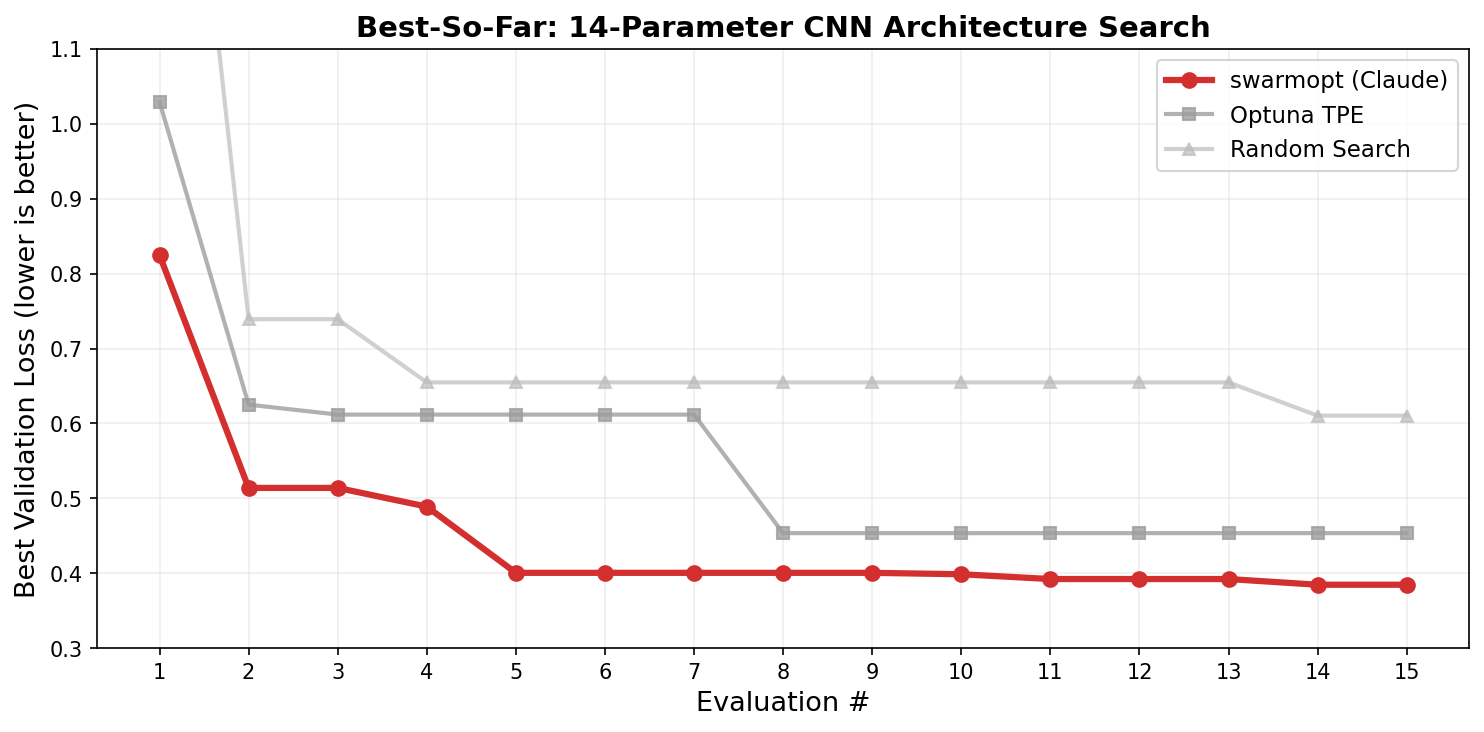
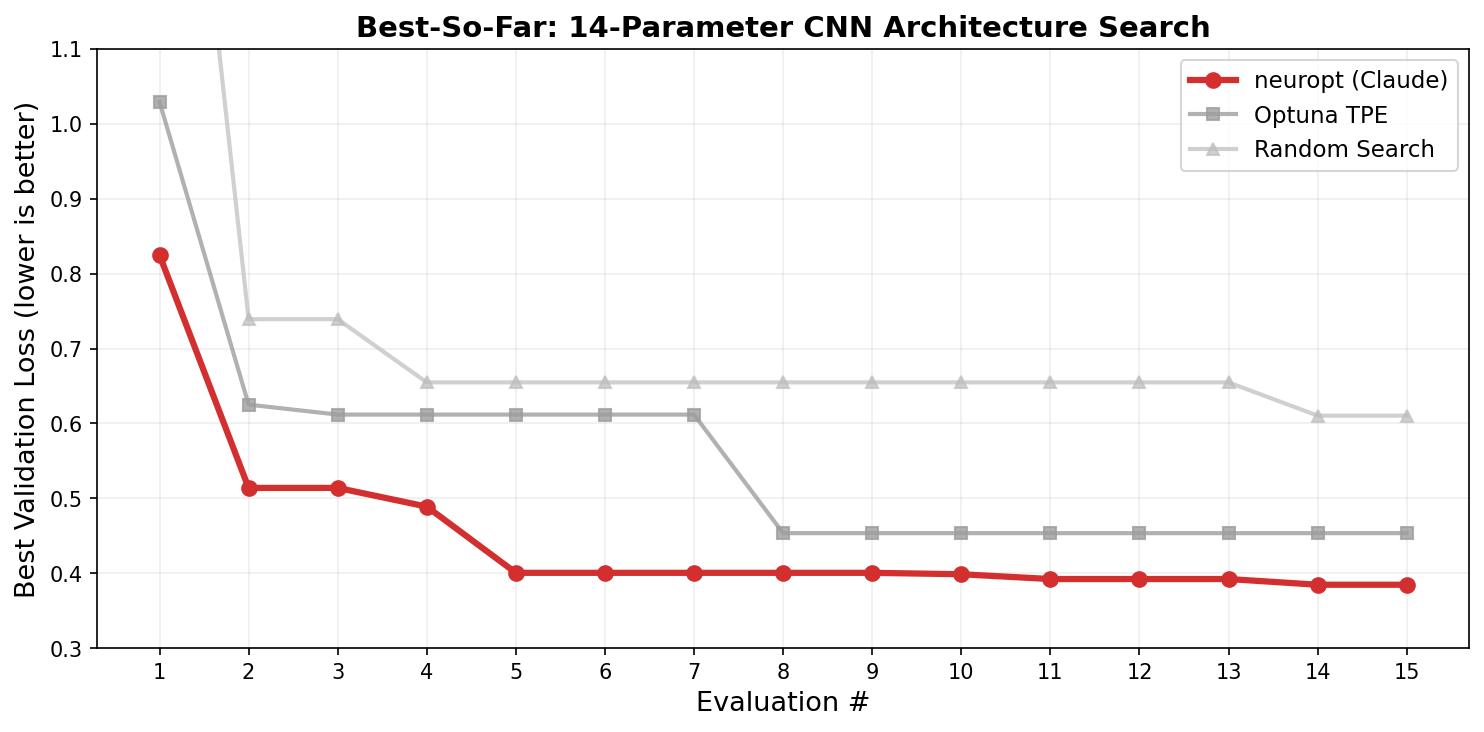
rename to neuropt

Changed region(s): [[0.7749, 0.0902, 0.9609, 0.2404]]

diff --git a/neuropt/backends/__init__.py b/neuropt/backends/__init__.py
@@ -1,6 +1,6 @@
 """LLM backend auto-detection and loading."""
 
-from swarmopt.backends.base import BaseLLMBackend
+from neuropt.backends.base import BaseLLMBackend
 
 
 def get_default_backend():
@@ -12,7 +12,7 @@ def get_default_backend():
 
     if os.environ.get("ANTHROPIC_API_KEY"):
         try:
-            from swarmopt.backends.claude_backend import ClaudeBackend
+            from neuropt.backends.claude_backend import ClaudeBackend
             backend = ClaudeBackend()
             if backend.is_available():
                 return backend
@@ -21,7 +21,7 @@ def get_default_backend():
 
     if os.environ.get("OPENAI_API_KEY"):
         try:
-            from swarmopt.backends.openai_backend import OpenAIBackend
+            from neuropt.backends.openai_backend import OpenAIBackend
             backend = OpenAIBackend()
             if backend.is_available():
                 return backend
@@ -29,7 +29,7 @@ def get_default_backend():
             pass
 
     try:
-        from swarmopt.backends.local_qwen import QwenBackend
+        from neuropt.backends.local_qwen import QwenBackend
         backend = QwenBackend()
         if backend.is_available():
             return backend
@@ -44,13 +44,13 @@ def get_backend_by_name(name):
     if name == "none":
         return None
     elif name == "claude":
-        from swarmopt.backends.claude_backend import ClaudeBackend
+        from neuropt.backends.claude_backend import ClaudeBackend
         return ClaudeBackend()
     elif name == "openai":
-        from swarmopt.backends.openai_backend import OpenAIBackend
+        from neuropt.backends.openai_backend import OpenAIBackend
         return OpenAIBackend()
     elif name == "qwen":
-        from swarmopt.backends.local_qwen import QwenBackend
+        from neuropt.backends.local_qwen import QwenBackend
         return QwenBackend()
     else:
         raise ValueError(f"Unknown backend: {name!r}. Use 'claude', 'openai', 'qwen', or 'none'.")

diff --git a/neuropt/arch_search.py b/neuropt/arch_search.py
@@ -14,7 +14,7 @@ import sys
 import time
 import traceback
 
-from swarmopt.search_space import Categorical, IntUniform, LogUniform, Uniform
+from neuropt.search_space import Categorical, IntUniform, LogUniform, Uniform
 
 
 DEFAULT_ML_CONTEXT = """\
@@ -83,7 +83,7 @@ class ArchSearch:
             backend: LLM backend (same as __init__).
             **kwargs: Passed to __init__ (log_path, batch_size, device, etc).
         """
-        from swarmopt.introspect import (
+        from neuropt.introspect import (
             introspect, build_search_space, build_ml_context,
             make_wrapped_train_fn,
         )
@@ -724,10 +724,10 @@ def _resolve_backend(backend):
     if backend is None or backend == "none":
         return None
     if backend == "auto":
-        from swarmopt.backends import get_default_backend
+        from neuropt.backends import get_default_backend
         return get_default_backend()
     if isinstance(backend, str):
-        from swarmopt.backends import get_backend_by_name
+        from neuropt.backends import get_backend_by_name
         return get_backend_by_name(backend)
     return backend  # assume it's a backend instance
 

diff --git a/neuropt/cli.py b/neuropt/cli.py
@@ -1,4 +1,4 @@
-"""CLI entry point: swarmopt my_train.py --backend claude"""
+"""CLI entry point: neuropt my_train.py --backend claude"""
 
 import importlib.util
 import sys
@@ -8,7 +8,7 @@ from typing import Optional
 import typer
 
 app = typer.Typer(
-    name="swarmopt",
+    name="neuropt",
     help="LLM-guided ML optimization. Point it at a training script, let it run overnight.",
     add_completion=False,
 )
@@ -68,7 +68,7 @@ def run(
 
     Optional: ml_context = "..." to give the LLM domain knowledge.
     """
-    from swarmopt import ArchSearch
+    from neuropt import ArchSearch
 
     train_fn, search_space, model, ml_context = _load_script(script)
 
@@ -96,8 +96,8 @@ def run(
 def inspect(
     script: Path = typer.Argument(..., help="Training script with a 'model' variable"),
 ):
-    """Show what swarmopt would search over for a given model."""
-    from swarmopt.introspect import introspect, build_search_space
+    """Show what neuropt would search over for a given model."""
+    from neuropt.introspect import introspect, build_search_space
 
     _, _, model, _ = _load_script(script)
     if model is None:

diff --git a/examples/train_fashion.py b/examples/train_fashion.py
@@ -1,7 +1,7 @@
 """
-Example training script for swarmopt CLI.
+Example training script for neuropt CLI.
 
-    swarmopt run examples/train_fashion.py --backend claude
+    neuropt run examples/train_fashion.py --backend claude
 
 Defines search_space + train_fn. That's it.
 """
@@ -15,7 +15,7 @@ import torchvision.transforms as T
 from torch.utils.data import DataLoader, Subset
 
 # ── Search space ─────────────────────────────────────────────────────────
-# Plain tuples and lists — swarmopt infers LogUniform, IntUniform, etc.
+# Plain tuples and lists — neuropt infers LogUniform, IntUniform, etc.
 
 search_space = {
     "n_blocks":       (2, 8),

diff --git a/examples/benchmark.py b/examples/benchmark.py
@@ -157,8 +157,8 @@ def random_config(rng):
 # ── Methods ──────────────────────────────────────────────────────────────
 
 def run_llm_search(backend_name, n_evals, train_loader, val_loader):
-    """Run swarmopt ArchSearch with a given backend."""
-    from swarmopt import ArchSearch
+    """Run neuropt ArchSearch with a given backend."""
+    from neuropt import ArchSearch
 
     log_path = f"/tmp/bench_{backend_name}.jsonl"
     if os.path.exists(log_path):

diff --git a/examples/train_resnet.py b/examples/train_resnet.py
@@ -1,9 +1,9 @@
 """
-Simplest possible swarmopt usage: give it a model, write a train loop.
+Simplest possible neuropt usage: give it a model, write a train loop.
 
-    swarmopt run examples/train_resnet.py --backend claude
+    neuropt run examples/train_resnet.py --backend claude
 
-swarmopt introspects the model, figures out what to search
+neuropt introspects the model, figures out what to search
 (activations, batch norm, dropout, lr, wd, optimizer), and runs.
 """
 

diff --git a/neuropt/__init__.py b/neuropt/__init__.py
@@ -1,0 +1,7 @@
+from neuropt.search_space import LogUniform, Uniform, IntUniform, Categorical
+from neuropt.arch_search import ArchSearch
+
+__all__ = [
+    "ArchSearch",
+    "LogUniform", "Uniform", "IntUniform", "Categorical",
+]

diff --git a/neuropt/backends/local_qwen.py b/neuropt/backends/local_qwen.py
@@ -1,6 +1,6 @@
 """Local Qwen2.5-1.5B-Instruct backend running on CPU (experimental)."""
 
-from swarmopt.backends.base import BaseLLMBackend
+from neuropt.backends.base import BaseLLMBackend
 
 
 class QwenBackend(BaseLLMBackend):

diff --git a/neuropt/backends/claude_backend.py b/neuropt/backends/claude_backend.py
@@ -1,7 +1,7 @@
 """Claude API backend via the anthropic SDK."""
 
 import os
-from swarmopt.backends.base import BaseLLMBackend
+from neuropt.backends.base import BaseLLMBackend
 
 
 class ClaudeBackend(BaseLLMBackend):

diff --git a/neuropt/backends/openai_backend.py b/neuropt/backends/openai_backend.py
@@ -1,7 +1,7 @@
 """OpenAI API backend via the openai SDK."""
 
 import os
-from swarmopt.backends.base import BaseLLMBackend
+from neuropt.backends.base import BaseLLMBackend
 
 
 class OpenAIBackend(BaseLLMBackend):

diff --git a/neuropt/introspect.py b/neuropt/introspect.py
@@ -2,7 +2,7 @@
 
 import copy
 
-from swarmopt.search_space import Categorical, LogUniform, Uniform
+from neuropt.search_space import Categorical, LogUniform, Uniform
 
 
 # Activation types we know how to swap
